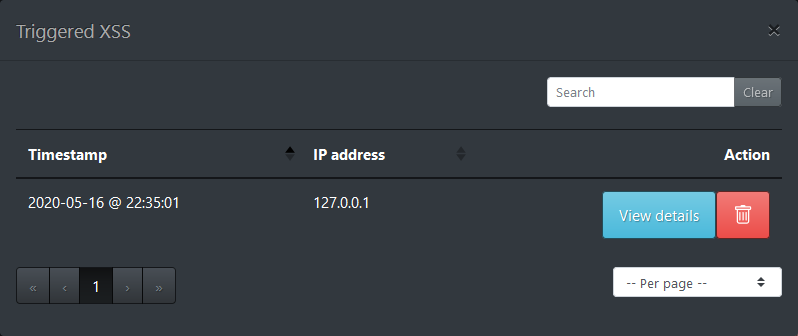
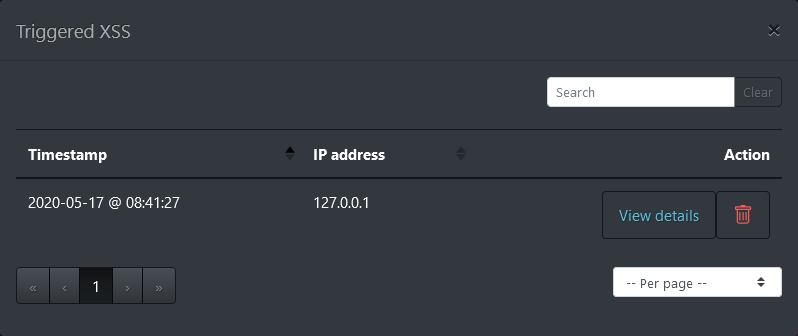
changed buttons style

diff --git a/client/src/components/Index.vue b/client/src/components/Index.vue
@@ -20,18 +20,18 @@
       <b-col offset-sm="1" sm="10">
         <b-row>
           <b-col sm="3" class="text-left">
-            <b-button v-b-modal.add-client-modal type="button" variant="success">
+            <b-button v-b-modal.add-client-modal type="button" variant="outline-success">
               Add
               new client
             </b-button>
           </b-col>
           <b-col offset-sm="1" sm="8" class="text-right">
-            <b-button v-b-tooltip.hover title="Refresh data" @click="getClients">
+            <b-button variant="outline-secondary" v-b-tooltip.hover title="Refresh data" @click="getClients">
               <b-icon-arrow-repeat style="width: 20px; height: 20px;"></b-icon-arrow-repeat>
             </b-button>
-            <b-button v-if="user.is_admin" variant="info" v-b-modal.manage-users-modal>Manage users</b-button>
-            <b-button variant="warning" v-b-modal.change-password-modal>Change password</b-button>
-            <b-button type="button" variant="warning" @click="getLogout">Log out</b-button>
+            <b-button v-if="user.is_admin" variant="outline-info" v-b-modal.manage-users-modal>Manage users</b-button>
+            <b-button variant="outline-warning" v-b-modal.change-password-modal>Change password</b-button>
+            <b-button type="button" variant="outline-warning" @click="getLogout">Log out</b-button>
           </b-col>
         </b-row>
         <br />
@@ -40,7 +40,7 @@
             <b-input-group>
               <b-form-input size="sm" v-model="search" type="search" placeholder="Search"></b-form-input>
               <b-input-group-append>
-                <b-button size="sm" :disabled="!search" @click="search = ''">Clear</b-button>
+                <b-button variant="outline-secondary" size="sm" :disabled="!search" @click="search = ''">Clear</b-button>
               </b-input-group-append>
             </b-input-group>
           </b-col>
@@ -82,7 +82,7 @@
                 @click="viewed_client=row.item"
                 v-b-modal.get-payload-modal
                 type="button"
-                variant="info"
+                variant="outline-info"
               >Generate payload</b-button>
               <b-button
                 v-if="row.item.owner_id === user.id || user.is_admin"
@@ -91,11 +91,11 @@
                 @click="to_delete = row.item.id"
                 v-b-modal.delete-client-modal
                 type="button"
-                variant="danger"
+                variant="outline-danger"
               >
                 <b-icon-trash style="width: 20px; height: 20px;"></b-icon-trash>
               </b-button>
-              <b-button v-else disabled type="button" variant="danger">Delete</b-button>
+              <b-button v-else disabled type="button" variant="outline-danger">Delete</b-button>
             </template>
           </b-table>
         </b-row>
@@ -117,8 +117,8 @@
     <b-modal ref="deleteClientModal" id="delete-client-modal" title="Are you sure?" hide-footer>
       <b-form @submit="deleteClient" @reset="$refs.deleteClientModal.hide()">
         <div class="text-right">
-          <b-button type="submit" variant="danger">Yes, delete this entry</b-button>
-          <b-button type="reset">Cancel</b-button>
+          <b-button type="submit" variant="outline-danger">Yes, delete this entry</b-button>
+          <b-button type="reset" variant="outline-secondary">Cancel</b-button>
         </div>
       </b-form>
     </b-modal>

diff --git a/client/src/components/ManageUsers.vue b/client/src/components/ManageUsers.vue
@@ -30,7 +30,7 @@
               title="Demote user"
               @click="promoteUser(0, user.id)"
               type="button"
-              variant="danger"
+              variant="outline-danger"
             >
               <b-icon-chevron-double-down style="width: 20px; height: 20px;"></b-icon-chevron-double-down>
             </b-button>
@@ -40,7 +40,7 @@
               title="Promote user"
               @click="promoteUser(1, user.id)"
               type="button"
-              variant="success"
+              variant="outline-success"
             >
               <b-icon-chevron-double-up style="width: 20px; height: 20px;"></b-icon-chevron-double-up>
             </b-button>
@@ -49,7 +49,7 @@
               title="Reset password"
               @click="resetPassword(user.id, user.username)"
               type="button"
-              variant="warning"
+              variant="outline-warning"
             >
               <b-icon-arrow-repeat style="width: 20px; height: 20px;"></b-icon-arrow-repeat>
             </b-button>
@@ -59,7 +59,7 @@
               @click="to_delete = user.id"
               v-b-modal.delete-user-modal
               type="button"
-              variant="danger"
+              variant="outline-danger"
             >
               <b-icon-trash style="width: 20px; height: 20px;"></b-icon-trash>
             </b-button>
@@ -68,16 +68,16 @@
       </tbody>
     </table>
     <div class="text-right">
-      <b-button variant="success" v-b-modal.create-user-modal>Create user</b-button>
-      <b-button type="reset" @click="cleanup">Cancel</b-button>
+      <b-button variant="outline-success" v-b-modal.create-user-modal>Create user</b-button>
+      <b-button variant="outline-secondary" type="reset" @click="cleanup">Cancel</b-button>
     </div>
     <br v-if="show_alert" />
     <b-alert show :variant="alert_type" v-if="show_alert">{{ alert_msg }}</b-alert>
     <b-modal ref="deleteUserModal" id="delete-user-modal" title="Are you sure?" hide-footer>
       <b-form @submit="deleteUser" @reset="$refs.deleteUserModal.hide()">
         <div class="text-right">
-          <b-button type="submit" variant="danger">Yes, delete this user</b-button>
-          <b-button type="reset">Cancel</b-button>
+          <b-button type="submit" variant="outline-danger">Yes, delete this user</b-button>
+          <b-button type="reset" variant="outline-secondary">Cancel</b-button>
         </div>
       </b-form>
     </b-modal>

diff --git a/client/src/components/ViewXSS.vue b/client/src/components/ViewXSS.vue
@@ -13,7 +13,7 @@
         <b-input-group>
           <b-form-input size="sm" v-model="search" type="search" placeholder="Search"></b-form-input>
           <b-input-group-append>
-            <b-button size="sm" :disabled="!search" @click="search = ''">Clear</b-button>
+            <b-button variant="outline-secondary" size="sm" :disabled="!search" @click="search = ''">Clear</b-button>
           </b-input-group-append>
         </b-input-group>
       </b-col>
@@ -34,7 +34,7 @@
       <template class="text-right" v-slot:cell(action)="row">
         <b-button
           type="button"
-          variant="info"
+          variant="outline-info"
           v-b-modal.view-details-modal
           @click="viewedXSS=row.item"
         >View details</b-button>
@@ -45,7 +45,7 @@
           @click="to_delete = row.item.id"
           v-b-modal.delete-xss-modal
           type="button"
-          variant="danger"
+          variant="outline-danger"
         >
           <b-icon-trash style="width: 20px; height: 20px;"></b-icon-trash>
         </b-button>
@@ -67,8 +67,8 @@
 
     <b-modal ref="deleteXSSModal" id="delete-xss-modal" title="Are you sure?" hide-footer>
       <b-form @submit="deleteXSS" @reset="$refs.deleteXSSModal.hide()">
-        <b-button type="submit" variant="danger">Yes, delete this entry</b-button>
-        <b-button type="reset">Cancel</b-button>
+        <b-button type="submit" variant="outline-danger">Yes, delete this entry</b-button>
+        <b-button type="reset" variant="outline-secondary">Cancel</b-button>
       </b-form>
     </b-modal>
 

diff --git a/client/src/components/ViewData.vue b/client/src/components/ViewData.vue
@@ -13,7 +13,7 @@
         <b-input-group>
           <b-form-input size="sm" v-model="search" type="search" placeholder="Search"></b-form-input>
           <b-input-group-append>
-            <b-button size="sm" :disabled="!search" @click="search = ''">Clear</b-button>
+            <b-button variant="outline-secondary" size="sm" :disabled="!search" @click="search = ''">Clear</b-button>
           </b-input-group-append>
         </b-input-group>
       </b-col>
@@ -87,7 +87,7 @@
             @click="to_delete_type = element_name; to_delete = Object.keys(row.item)[0]"
             v-b-modal.delete-data-modal
             type="button"
-            variant="danger"
+            variant="outline-danger"
           >
             <b-icon-trash style="width: 20px; height: 20px;"></b-icon-trash>
           </b-button>
@@ -97,8 +97,8 @@
 
     <b-modal ref="deleteDataModal" id="delete-data-modal" title="Are you sure?" hide-footer>
       <b-form @submit="deleteData" @reset="$refs.deleteDataModal.hide()">
-        <b-button type="submit" variant="danger">Yes, delete this entry</b-button>
-        <b-button type="reset">Cancel</b-button>
+        <b-button type="submit" variant="outline-danger">Yes, delete this entry</b-button>
+        <b-button type="reset" variant="outline-danger">Cancel</b-button>
       </b-form>
     </b-modal>
   </b-modal>

diff --git a/client/src/components/CreateUser.vue b/client/src/components/CreateUser.vue
@@ -21,8 +21,8 @@
         ></b-form-input>
       </b-form-group>
       <div class="text-right">
-        <b-button type="submit" variant="info">Create user</b-button>
-        <b-button type="reset">Cancel</b-button>
+        <b-button type="submit" variant="outline-info">Create user</b-button>
+        <b-button type="reset" variant="outline-secondary">Cancel</b-button>
       </div>
     </b-form>
     <br v-if="show_alert" />
@@ -41,7 +41,7 @@
       <p>Username: {{ username }}</p>
       <p>Password: {{ data.detail }}</p>
       <div class="text-right">
-        <b-button @click="$refs.createUserModal.hide()" type="reset">Close</b-button>
+        <b-button @click="$refs.createUserModal.hide()" type="reset" variant="outline-secondary">Close</b-button>
       </div>
     </b-modal>
   </b-modal>

diff --git a/client/src/components/ViewClient.vue b/client/src/components/ViewClient.vue
@@ -52,8 +52,8 @@
         <b-form-input v-else readonly id="input-field-owner" v-model="client.owner"></b-form-input>
       </b-form-group>
       <div class="text-right">
-        <b-button v-if="owner_id === user_id || is_admin" type="submit" variant="info">Save</b-button>
-        <b-button type="reset" variant="secondary">Cancel</b-button>
+        <b-button v-if="owner_id === user_id || is_admin" type="submit" variant="outline-info">Save</b-button>
+        <b-button type="reset" variant="outline-secondary">Cancel</b-button>
       </div>
     </b-form>
     <br v-if="show_alert" />

diff --git a/client/src/components/ChangePassword.vue b/client/src/components/ChangePassword.vue
@@ -35,8 +35,8 @@
         <b-form-input @keyup.enter="changePassword" v-model="new_password2" id="input-field-np2" type="password" required></b-form-input>
       </b-form-group>
       <div class="text-right">
-        <b-button type="submit" variant="info">Save</b-button>
-        <b-button type="reset">Cancel</b-button>
+        <b-button type="submit" variant="outline-info">Save</b-button>
+        <b-button type="reset" variant="outline-secondary">Cancel</b-button>
       </div>
     </b-form>
     <br v-if="show_alert" />

diff --git a/client/src/components/AddClient.vue b/client/src/components/AddClient.vue
@@ -20,8 +20,8 @@
         <b-form-input v-model="client.description" id="input-field-description" required></b-form-input>
       </b-form-group>
       <div class="text-right">
-        <b-button type="submit" variant="info">Save</b-button>
-        <b-button type="reset">Cancel</b-button>
+        <b-button type="submit" variant="outline-info">Save</b-button>
+        <b-button type="reset" variant="outline-secondary">Cancel</b-button>
       </div>
     </b-form>
     <br v-if="show_alert" />

diff --git a/client/src/components/Login.vue b/client/src/components/Login.vue
@@ -45,7 +45,7 @@
                 <b-form-checkbox v-model="form.remember">Remember me:</b-form-checkbox>
               </b-form-checkbox-group>
             </b-form-group>
-            <b-button type="submit" variant="info">Login</b-button>
+            <b-button type="submit" variant="outline-info">Login</b-button>
           </b-form>
           <br />
           <b-alert show variant="danger" v-if="show_alert">{{ alert_msg }}</b-alert>

diff --git a/client/src/components/GetPayload.vue b/client/src/components/GetPayload.vue
@@ -45,8 +45,8 @@
         ></b-form-input>
       </b-form-group>
       <div class="text-right">
-        <b-button type="submit" variant="info">Generate</b-button>
-        <b-button type="reset">Cancel</b-button>
+        <b-button type="submit" variant="outline-info">Generate</b-button>
+        <b-button type="reset" variant="outline-secondary">Cancel</b-button>
       </div>
     </b-form>
   </b-modal>
